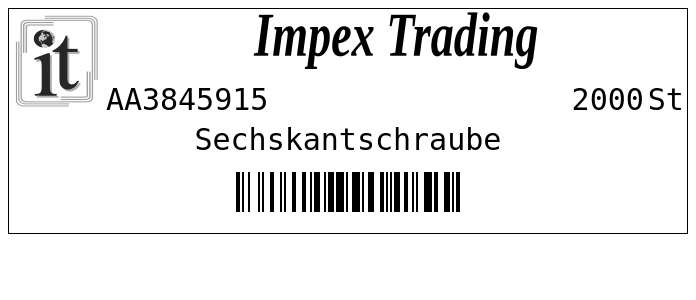
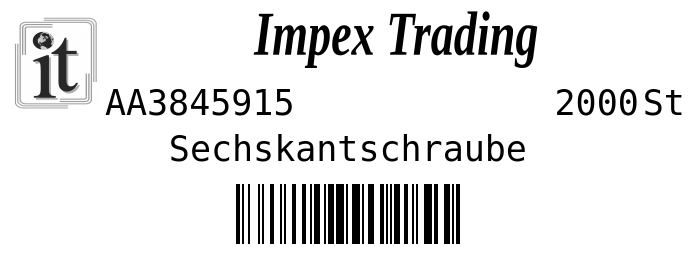
Label überarbeitet

diff --git a/html/index.html b/html/index.html
@@ -14,9 +14,9 @@
   max-width: 696px;
   margin: auto;
   background-color: white;
-  border: 1px solid black;
+  border: 0px solid black;
   font-family: DejaVu;
-  font-size: 30px;
+  font-size: 35px;
 
 }
 
@@ -80,7 +80,7 @@
 	
 	<script>
     JsBarcode("#barcode", "AA3845915", {
-  		height: 40,
+  		height: 60,
 		font: "DejaVu",
 		displayValue: false
 	});

diff --git a/html/template.html b/html/template.html
@@ -14,9 +14,9 @@
   max-width: 696px;
   margin: auto;
   background-color: white;
-  border: 1px solid black;
+  border: 0px solid black;
   font-family: DejaVu;
-  font-size: 30px;
+  font-size: 35px;
 
 }
 
@@ -80,7 +80,7 @@
 	
 	<script>
     JsBarcode("#barcode", "BARCODE", {
-  		height: 40,
+  		height: 60,
 		font: "DejaVu",
 		displayValue: false
 	});
